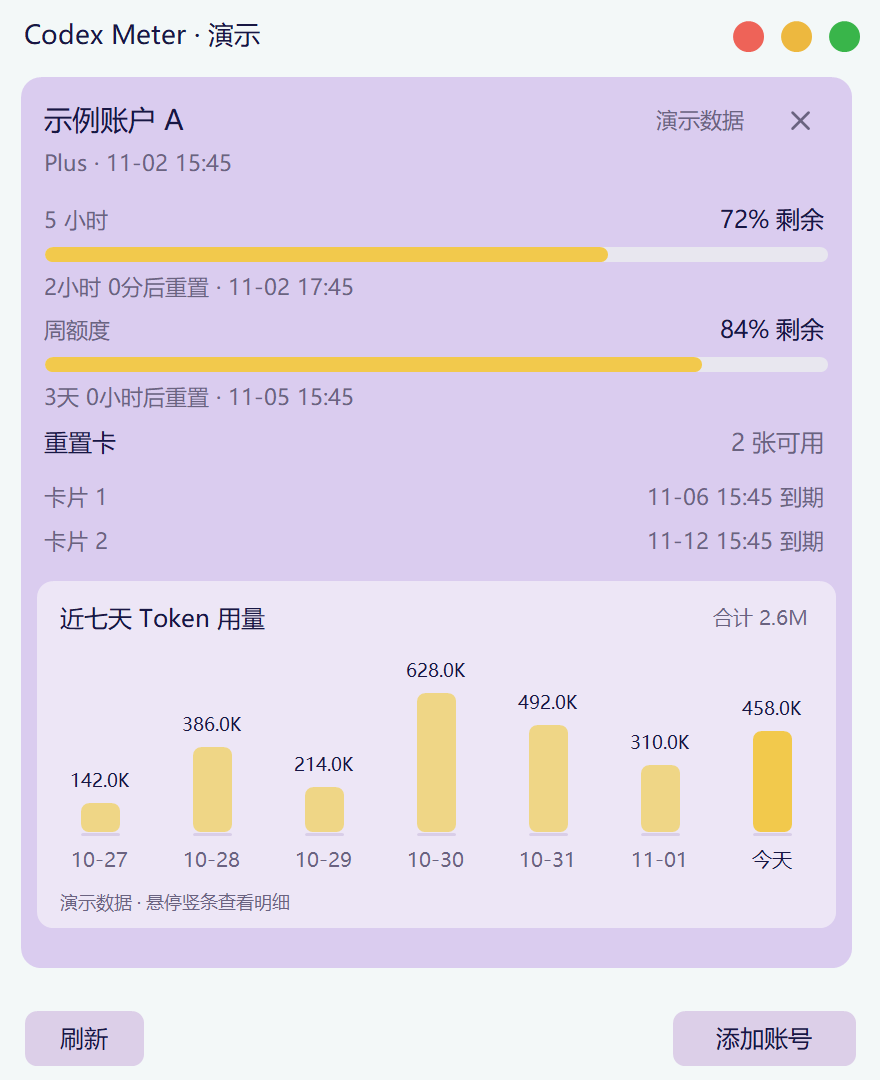
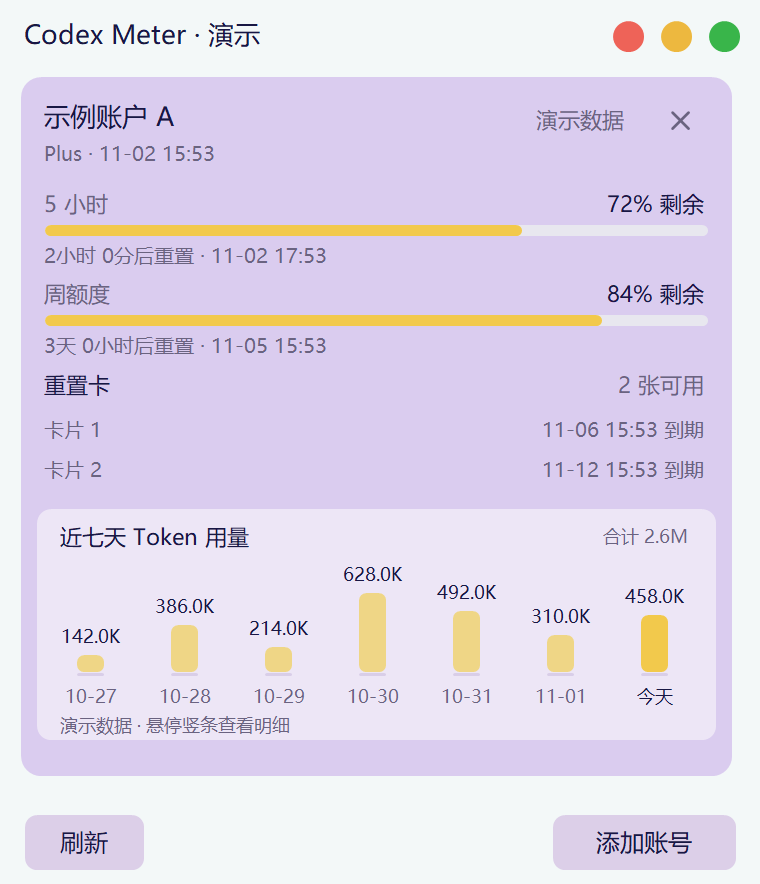
ui: compact expanded account cards and weekly token chart

diff --git a/src/main.cpp b/src/main.cpp
@@ -21,6 +21,7 @@ using namespace meter;
 namespace {
 constexpr UINT WM_RESULTS=WM_APP+1,WM_TRAY=WM_APP+2,WM_DOCK=WM_APP+3;
 constexpr int HEADER=34,FOOTER=42;
+constexpr int DETAIL_WIDTH=380,DETAIL_GAP=8,USAGE_HEIGHT=116,USAGE_SPACE=130;
 constexpr COLORREF BG=RGB(243,248,248),SURFACE=RGB(248,240,226),CARD=RGB(218,204,239),
     BUTTON=RGB(220,207,232),TRACK=RGB(232,231,239),INK=RGB(24,23,68),
     MUTED=RGB(106,99,128),LINE=RGB(250,246,235),ACCENT=RGB(129,113,224),
@@ -170,11 +171,11 @@ void ring(HDC dc,int cx,int cy,int radius,const std::optional<double>& value,boo
 int cardHeight(const View& v) {
     int rows=std::max(1,static_cast<int>(v.snapshot.windows.size()));
     int credits=std::max(1,static_cast<int>(v.snapshot.credits.size()));
-    return 62+rows*55+28+credits*22+(incompleteCredits(v.snapshot)?22:0)+(v.failed?42:0)+14+188;
+    return 54+rows*45+24+credits*20+(incompleteCredits(v.snapshot)?20:0)+(v.failed?36:0)+12+USAGE_SPACE;
 }
 int contentHeight(){
     if(views.empty())return 100;
-    int h=4;for(const auto& v:views)h+=expanded?cardHeight(v)+10:50;return h+4;
+    int h=4;for(const auto& v:views)h+=expanded?cardHeight(v)+DETAIL_GAP:50;return h+4;
 }
 void persist() {
     if(demo)return;
@@ -254,7 +255,7 @@ void layout(bool initial=false) {
         InvalidateRect(window,nullptr,FALSE);layoutBusy=false;return;
     }
     totalContent=contentHeight();
-    int width=expanded?440:320;
+    int width=expanded?DETAIL_WIDTH:320;
     int maxHeight=std::max(90,logical(info.rcWork.bottom-info.rcWork.top)-80);
     int footer=(expanded||views.empty())?FOOTER:0;
     int height=HEADER+std::min(totalContent,expanded?maxHeight-HEADER-footer:208)+footer;
@@ -379,73 +380,73 @@ std::wstring tokenAmount(long double value) {
     else if(value>=1e3L){value/=1e3L;unit=L"K";}
     std::wostringstream out;out<<std::fixed<<std::setprecision(*unit?1:0)<<value<<unit;return out.str();
 }
-int usageChartTop(const View& v,int top){return top+cardHeight(v)-194;}
+int usageChartTop(const View& v,int top){return top+cardHeight(v)-USAGE_SPACE-4;}
 void usageChart(HDC dc,const View& v,int top,int width) {
-    const int left=22,area=width-44,step=area/7,baseline=top+126;
-    box(dc,left-4,top,area+8,174,RGB(237,230,246),16);
-    text(dc,L"近七天 Token 用量",left+8,top+8,180,22,INK,12,FW_MEDIUM);
+    const int left=22,area=width-44,step=area/7,baseline=top+82;
+    box(dc,left-4,top,area+8,USAGE_HEIGHT,RGB(237,230,246),14);
+    text(dc,L"近七天 Token 用量",left+8,top+5,150,18,INK,11,FW_MEDIUM);
     auto dates=usageDates();long double total=0,peak=1;int known=0;
     for(const auto& date:dates) {auto it=v.usage.days.find(date);if(it!=v.usage.days.end()){
         total+=it->second;peak=std::max(peak,static_cast<long double>(it->second));++known;}}
     const auto summary=known?(known==7?L"合计 ":L"已知合计 ")+tokenAmount(total):L"暂无数据";
-    text(dc,summary,left+180,top+9,area-190,20,MUTED,10,FW_NORMAL,DT_RIGHT|DT_VCENTER|DT_SINGLELINE);
+    text(dc,summary,left+150,top+5,area-160,18,MUTED,9,FW_NORMAL,DT_RIGHT|DT_VCENTER|DT_SINGLELINE);
     for(int i=0;i<7;++i) {
         int cx=left+step*i+step/2;auto it=v.usage.days.find(dates[i]);bool has=it!=v.usage.days.end();
-        const int height=has&&it->second>0?std::max(3,static_cast<int>(it->second/peak*70)):0;
-        box(dc,cx-10,baseline,20,2,RGB(217,206,232),2);
-        if(height)box(dc,cx-10,baseline-height,20,height,i==6?WARM:RGB(239,214,134),8);
-        text(dc,has?tokenAmount(static_cast<long double>(it->second)):L"—",cx-step/2,baseline-height-20,step,18,has?INK:MUTED,9,FW_NORMAL,DT_CENTER|DT_VCENTER|DT_SINGLELINE);
-        text(dc,i==6?L"今天":wide(dates[i].substr(5)),cx-step/2,baseline+5,step,18,i==6?INK:MUTED,10,i==6?FW_MEDIUM:FW_NORMAL,DT_CENTER|DT_VCENTER|DT_SINGLELINE);
+        const int height=has&&it->second>0?std::max(2,static_cast<int>(it->second/peak*40)):0;
+        box(dc,cx-7,baseline,14,2,RGB(217,206,232),2);
+        if(height)box(dc,cx-7,baseline-height,14,height,i==6?WARM:RGB(239,214,134),7);
+        text(dc,has?tokenAmount(static_cast<long double>(it->second)):L"—",cx-step/2,baseline-height-16,step,14,has?INK:MUTED,9,FW_NORMAL,DT_CENTER|DT_VCENTER|DT_SINGLELINE);
+        text(dc,i==6?L"今天":wide(dates[i].substr(5)),cx-step/2,baseline+4,step,16,i==6?INK:MUTED,9,i==6?FW_MEDIUM:FW_NORMAL,DT_CENTER|DT_VCENTER|DT_SINGLELINE);
     }
     std::wstring note=demo?L"演示数据 · 悬停竖条查看明细":!v.usage.message.empty()?wide(v.usage.message):
         v.usageUpdated?L"更新 "+date(v.usageUpdated)+L" · 按服务日期展示":
         !v.usageChecked?L"正在等待每日用量；可按 F5 刷新":L"服务未提供这七天的用量";
-    text(dc,note,left+8,top+153,area-16,16,MUTED,9);
+    text(dc,note,left+8,top+103,area-16,11,MUTED,9);
 }
 void detail(HDC dc,const View& v,int y,int w,int index) {
     int height=cardHeight(v);
     box(dc,10,y,w-20,height,CARD,20);
-    text(dc,wide(v.profile.name.empty()?"ChatGPT":v.profile.name),22,y+9,w-186,25,INK,14,FW_MEDIUM);
+    text(dc,wide(v.profile.name.empty()?"ChatGPT":v.profile.name),22,y+9,w-186,22,INK,13,FW_MEDIUM);
     removeGlyph(dc,w-48,y+10,hotRemove==index);
     text(dc,demo?L"演示数据":(v.busy?L"同步中":v.paused?L"已暂停":v.failed?L"更新失败":stale(v)?L"旧数据":v.synced?L"已同步":L"未连接"),
          w-154,y+11,90,21,v.failed?LOW:MUTED,11,FW_NORMAL,DT_RIGHT|DT_VCENTER|DT_SINGLELINE);
     std::wstring sub=wide(v.profile.plan);
     if(v.profile.local)sub+=L" · 本机 Codex";
     if(v.synced)sub+=L" · "+date(static_cast<int64_t>(v.synced));
-    text(dc,sub,22,y+34,w-44,18,MUTED,11);
-    int row=y+62;
-    if(v.snapshot.windows.empty()){text(dc,v.synced?L"服务未返回额度窗口":L"额度尚未读取",22,row,w-44,24,MUTED);row+=55;}
+    text(dc,sub,22,y+31,w-44,16,MUTED,10);
+    int row=y+54;
+    if(v.snapshot.windows.empty()){text(dc,v.synced?L"服务未返回额度窗口":L"额度尚未读取",22,row,w-44,22,MUTED);row+=45;}
     for(const auto& b:v.snapshot.windows) {
         auto label=duration(b);
         if(v.snapshot.windows.size()>2||b.bucketId!="codex")
             label=wide(b.bucketName.empty()?b.bucketId:b.bucketName)+L" · "+label;
         text(dc,label,22,row,w-146,19,MUTED,11);
-        text(dc,percent(b.remaining)+L" 剩余",w-120,row,96,19,INK,12,FW_MEDIUM,DT_RIGHT|DT_VCENTER|DT_SINGLELINE);
-        progress(dc,22,row+23,w-44,8,b.remaining,stale(v));
-        text(dc,reset(b),22,row+34,w-44,18,MUTED,11);
-        row+=55;
+        text(dc,percent(b.remaining)+L" 剩余",w-120,row,96,19,INK,11,FW_MEDIUM,DT_RIGHT|DT_VCENTER|DT_SINGLELINE);
+        progress(dc,22,row+20,w-44,6,b.remaining,stale(v));
+        text(dc,reset(b),22,row+28,w-44,16,MUTED,10);
+        row+=45;
     }
-    text(dc,L"重置卡",22,row,90,22,INK,12,FW_MEDIUM);
+    text(dc,L"重置卡",22,row,90,20,INK,11,FW_MEDIUM);
     text(dc,v.snapshot.creditCount?std::to_wstring(*v.snapshot.creditCount)+L" 张可用":L"未提供",
-        w-130,row,106,22,MUTED,12,FW_NORMAL,DT_RIGHT|DT_VCENTER|DT_SINGLELINE);
-    row+=28;
+        w-130,row,106,20,MUTED,11,FW_NORMAL,DT_RIGHT|DT_VCENTER|DT_SINGLELINE);
+    row+=24;
     if(v.snapshot.credits.empty()) {
         std::wstring message;
         if(!v.snapshot.creditCount)message=L"服务未返回重置卡信息";
         else if(*v.snapshot.creditCount==0)message=L"没有可用重置卡";
         else message=L"未返回卡片明细";
-        text(dc,message,22,row,w-44,20,MUTED,11);row+=22;
+        text(dc,message,22,row,w-44,18,MUTED,10);row+=20;
     }
     for(size_t i=0;i<v.snapshot.credits.size();++i) {
         const auto& c=v.snapshot.credits[i];
         auto label=L"卡片 "+std::to_wstring(i+1);
         if(!c.status.empty()&&c.status!="available")label+=L" · "+wide(c.status);
-        text(dc,label,22,row,w-240,20,MUTED,11);
-        text(dc,c.expires?date(c.expires)+L" 到期":L"到期时间未提供",w-222,row,198,20,MUTED,11,FW_NORMAL,DT_RIGHT|DT_VCENTER|DT_SINGLELINE);
-        row+=22;
+        text(dc,label,22,row,w-244,18,MUTED,10);
+        text(dc,c.expires?date(c.expires)+L" 到期":L"到期时间未提供",w-218,row,194,18,MUTED,10,FW_NORMAL,DT_RIGHT|DT_VCENTER|DT_SINGLELINE);
+        row+=20;
     }
-    if(incompleteCredits(v.snapshot)){text(dc,L"服务仅返回部分卡片明细",22,row,w-44,20,MUTED,11);row+=22;}
-    if(v.failed)text(dc,wide(v.status)+(v.synced?L"（保留上次数据）":L""),22,row+3,w-44,38,LOW,11,FW_NORMAL,DT_LEFT|DT_WORDBREAK);
+    if(incompleteCredits(v.snapshot)){text(dc,L"服务仅返回部分卡片明细",22,row,w-44,18,MUTED,10);row+=20;}
+    if(v.failed)text(dc,wide(v.status)+(v.synced?L"（保留上次数据）":L""),22,row+2,w-44,34,LOW,10,FW_NORMAL,DT_LEFT|DT_WORDBREAK);
     usageChart(dc,v,usageChartTop(v,y),w);
 }
 void dockedPaint(HDC dc,int width,int height) {
@@ -512,7 +513,7 @@ void paint(HDC dc) {
         int y=HEADER+4-scrollY;
         for(size_t index=0;index<views.size();++index) {
             const auto& v=views[index];
-            int h=expanded?cardHeight(v)+10:50;
+            int h=expanded?cardHeight(v)+DETAIL_GAP:50;
             if(y+h>=HEADER&&y<=HEADER+viewContent) {
                 if(expanded)detail(mem,v,y,width-4,static_cast<int>(index));else compact(mem,v,y,width);
             }
@@ -648,13 +649,13 @@ int accountAt(int x,int y){
     }
     if(y<HEADER||y>=HEADER+viewContent)return -1;
     int top=HEADER+4-scrollY;
-    for(size_t i=0;i<views.size();++i){int h=expanded?cardHeight(views[i]):46;if(y>=top&&y<top+h)return static_cast<int>(i);top+=expanded?h+10:50;}
+    for(size_t i=0;i<views.size();++i){int h=expanded?cardHeight(views[i]):46;if(y>=top&&y<top+h)return static_cast<int>(i);top+=expanded?h+DETAIL_GAP:50;}
     return -1;
 }
 int removeAt(int x,int y){
     if(!expanded||settings.docked)return -1;
     RECT client{};GetClientRect(window,&client);int top=HEADER+4-scrollY;
-    for(size_t i=0;i<views.size();++i){if(removeHit(x,y,logical(client.right),top,HEADER,HEADER+viewContent))return static_cast<int>(i);top+=cardHeight(views[i])+10;}
+    for(size_t i=0;i<views.size();++i){if(removeHit(x,y,logical(client.right),top,HEADER,HEADER+viewContent))return static_cast<int>(i);top+=cardHeight(views[i])+DETAIL_GAP;}
     return -1;
 }
 void menu(POINT screen,int selected=-1) {
@@ -869,10 +870,10 @@ LRESULT CALLBACK proc(HWND hwnd,UINT msg,WPARAM wp,LPARAM lp){
                     if(!v.status.empty())tooltipText+=L"\n"+wide(v.status);
                     if(settings.docked)tooltipText+=L"\n内圈米黄：短周期；外圈淡紫：周额度\n点击展开，滚轮切换账号";
                     if(expanded&&!settings.docked) {
-                        int cardTop=HEADER+4-scrollY;for(int i=0;i<index;++i)cardTop+=cardHeight(views[i])+10;
+                        int cardTop=HEADER+4-scrollY;for(int i=0;i<index;++i)cardTop+=cardHeight(views[i])+DETAIL_GAP;
                         int chart=usageChartTop(v,cardTop),x=logical(p.x),y=logical(p.y);
                         RECT client{};GetClientRect(hwnd,&client);int step=(logical(client.right)-48)/7;
-                        if(y>=chart+32&&y<chart+150&&x>=22&&x<22+step*7) {
+                        if(y>=chart+24&&y<chart+102&&x>=22&&x<22+step*7) {
                             int day=(x-22)/step;auto dates=usageDates();auto found=v.usage.days.find(dates[day]);
                             tooltipText=compactName(v.profile)+L"\n"+wide(dates[day])+L"（服务日期）\n"+
                                 (found==v.usage.days.end()?L"无数据":std::to_wstring(found->second)+L" Tokens");

diff --git a/scripts/render-demo.cpp b/scripts/render-demo.cpp
@@ -9,7 +9,7 @@ void exportDemo(const fs::path& path,bool detailMode,int side) {
     expanded=detailMode;settings.docked=side!=0;settings.dockSide=side;
     totalContent=settings.docked?static_cast<int>(views.size())*84:contentHeight();
     viewContent=totalContent;scrollY=0;
-    const int width=settings.docked?(side>=3?totalContent:84):(expanded?440:320);
+    const int width=settings.docked?(side>=3?totalContent:84):(expanded?DETAIL_WIDTH:320);
     const int height=settings.docked?(side>=3?90:totalContent):HEADER+totalContent+(expanded?FOOTER:0);
     SetWindowPos(window,nullptr,0,0,px(width),px(height),SWP_NOZORDER|SWP_NOACTIVATE);
     BITMAPINFO info{};info.bmiHeader.biSize=sizeof(BITMAPINFOHEADER);

diff --git a/src/version.h b/src/version.h
@@ -1,4 +1,4 @@
 #pragma once
-#define METER_VERSION "0.3.3"
-#define METER_VERSION_W L"0.3.3"
-#define METER_FILE_VERSION 0,3,3,0
+#define METER_VERSION "0.3.4"
+#define METER_VERSION_W L"0.3.4"
+#define METER_FILE_VERSION 0,3,4,0

diff --git a/RELEASE_NOTES.md b/RELEASE_NOTES.md
@@ -1,8 +1,14 @@
-# Codex Meter v0.3.3
+# Codex Meter v0.3.4
 
 Windows x64 便携版。解压后双击 `codex_meter.exe`，无需安装。
 
 ## 本次更新
+
+- 缩小详情窗口：宽度 440 → 380，收紧额度行、重置卡及多账号间距。
+- 七天用量图表高度 174 → 116，保留日期、每日数值、合计和悬停明细。
+- 同步更新点击及悬停区域，保持米黄／淡紫配色和无白边的圆角绘制。
+
+## 最近的视觉修复
 
 - 修复按钮、红绿灯和卡片圆角在玻璃背景上的浅色毛边，边缘按正确透明度合成。
 - 去掉底部按钮白色描边，调整圆角与留白，增加柔和悬停、按下及键盘焦点样式。

diff --git a/docs/images/README.md b/docs/images/README.md
@@ -5,8 +5,8 @@
 | 图片 | 展示内容 |
 | --- | --- |
 | compact.png | 640×284，紧凑模式，多账号短周期及周额度 |
-| details.png | 880×1948，多账号完整详情与七天用量图 |
-| account-preview.png | 880×1080，单账号详情、重置卡和七天用量图 |
+| details.png | 760×1560，多账号完整详情与七天用量图 |
+| account-preview.png | 760×884，单账号详情、重置卡和七天用量图 |
 | edge-dock.png | 336×180，贴顶横向收纳，默认文字头像和双额度圆环 |
 | edge-dock-vertical.png | 168×336，左右贴边的纵向收纳 |
 

diff --git a/CHANGELOG.md b/CHANGELOG.md
@@ -1,3 +1,9 @@
+# 0.3.4 · 2026-11-02
+
+- 详情窗口宽度从 440 缩至 380，收紧额度行、重置卡及账号间距。
+- 七天用量图表高度从 174 缩至 116，缩窄竖条，保留完整日期、数值、合计及悬停明细。
+- 同步更新卡片命中、滚动和悬停范围，以及高清演示图。
+
 # 0.3.3 · 2026-11-02
 
 - 修复圆角和红绿灯抗锯齿边缘在玻璃背景上形成不透明白边的问题，统一使用预乘透明度合成。

diff --git a/TESTING.md b/TESTING.md
@@ -1,4 +1,4 @@
-# 0.3.3 测试步骤
+# 0.3.4 测试步骤
 
 ## 推荐首次测试顺序
 
